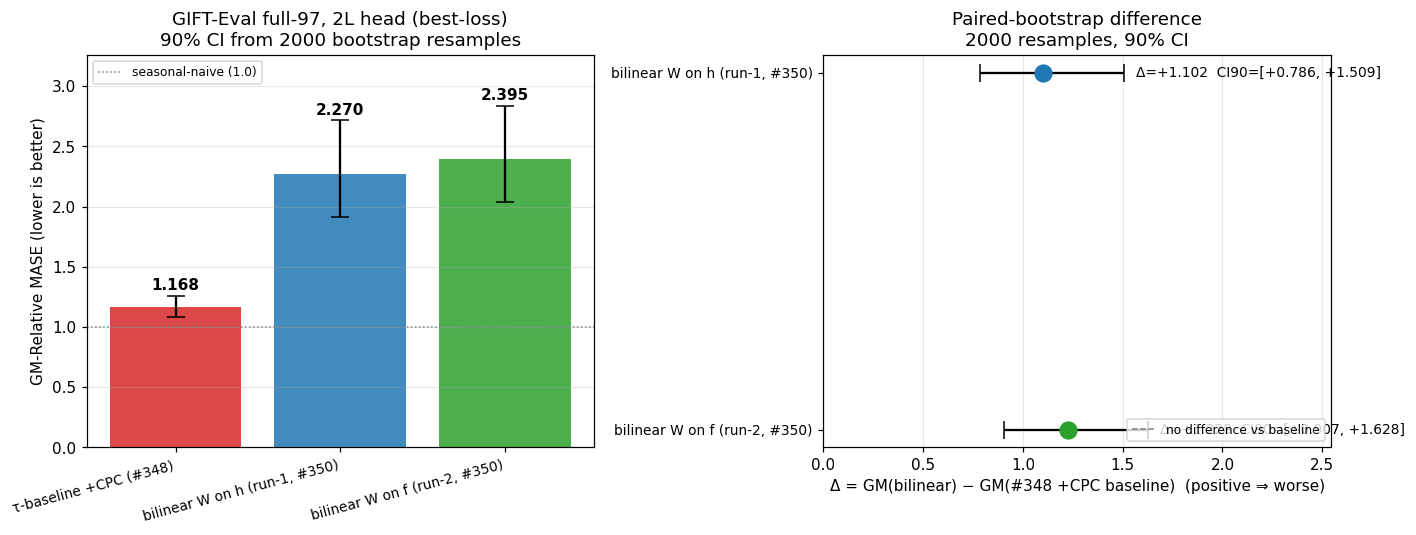
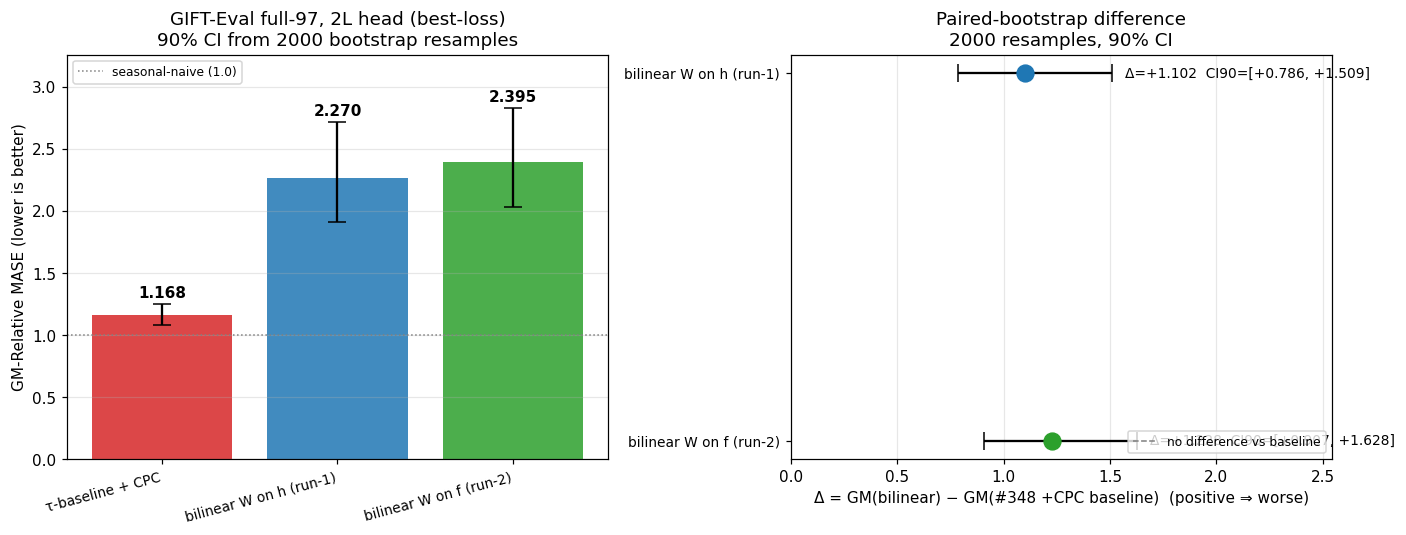
review(#350): apply rnd report standard + report pitfalls
- Drop "Open question" section (rnd REPORT_STANDARD "Facts only" — the agent
  does not act as a research scientist forming hypotheses).
- Strip "#NNN" / "(#348, ref)" provenance from prose and plot legends
  (report_pitfalls 1.4: codename and PR-number references). Refer to prior
  work by description ("the prior no-encoder + CPC recipe", "the τ baseline").
- Tighten the matched-step training-curve sentence (keep the explicit
  17.3 / 25.8 / 29.2).

Plots re-rendered with the cleaned labels.

🤖 Generated with [Claude Code](https://claude.com/claude-code)

Claude-Session: https://claude.ai/code/session_01N9rZ6gsW6wGfBWSQVwpQ4P

diff --git a/experiments/2026-06-16_bilinear_main_loss/scripts/plot_gm_summary.py b/experiments/2026-06-16_bilinear_main_loss/scripts/plot_gm_summary.py
@@ -17,13 +17,13 @@ import matplotlib.pyplot as plt
 
 ROOT = "/home/jupyter/workspaces/contrastive-forecasting/experiments"
 PATHS = {
-    "τ-baseline +CPC (#348)":          f"{ROOT}/2026-06-15_no_encoder_redo/results/gift_eval_full_allt08_xftrip_nobn_noenc_sgpos_qk_aon_b1024_cpc_2L/summary.txt",
-    "bilinear W on h (run-1, #350)":   f"{ROOT}/2026-06-16_bilinear_main_loss/results/gift_eval_full_allt08_xftrip_nobn_noenc_sgpos_qk_aon_b1024_bilinear_2L/summary.txt",
-    "bilinear W on f (run-2, #350)":   f"{ROOT}/2026-06-16_bilinear_main_loss/results/gift_eval_full_allt08_xftrip_nobn_noenc_sgpos_qk_aon_b1024_bilinear2_2L/summary.txt",
+    "τ-baseline + CPC":          f"{ROOT}/2026-06-15_no_encoder_redo/results/gift_eval_full_allt08_xftrip_nobn_noenc_sgpos_qk_aon_b1024_cpc_2L/summary.txt",
+    "bilinear W on h (run-1)":   f"{ROOT}/2026-06-16_bilinear_main_loss/results/gift_eval_full_allt08_xftrip_nobn_noenc_sgpos_qk_aon_b1024_bilinear_2L/summary.txt",
+    "bilinear W on f (run-2)":   f"{ROOT}/2026-06-16_bilinear_main_loss/results/gift_eval_full_allt08_xftrip_nobn_noenc_sgpos_qk_aon_b1024_bilinear2_2L/summary.txt",
 }
-COLORS = {"τ-baseline +CPC (#348)": "#d62728",
-          "bilinear W on h (run-1, #350)": "#1f77b4",
-          "bilinear W on f (run-2, #350)": "#2ca02c"}
+COLORS = {"τ-baseline + CPC": "#d62728",
+          "bilinear W on h (run-1)": "#1f77b4",
+          "bilinear W on f (run-2)": "#2ca02c"}
 OUT = os.path.join(os.path.dirname(__file__), "..", "plots", "gm_summary.png")
 N_BOOT, CI, SEED = 2000, 0.90, 0
 
@@ -72,7 +72,7 @@ def main():
     runs = {k: parse(v) for k, v in PATHS.items()}
     tasks = sorted(set.intersection(*[set(d.keys()) for d in runs.values()]))
     assert len(tasks) == 97, f"expected 97 tasks, got {len(tasks)}"
-    base_key = "τ-baseline +CPC (#348)"
+    base_key = "τ-baseline + CPC"
     arms = [k for k in PATHS if k != base_key]
 
     fig, axes = plt.subplots(1, 2, figsize=(13, 5))

diff --git a/experiments/2026-06-16_bilinear_main_loss/scripts/plot_training_dynamics.py b/experiments/2026-06-16_bilinear_main_loss/scripts/plot_training_dynamics.py
@@ -26,9 +26,9 @@ RED    = "#d62728"   # τ baseline #348
 LOSSES = "bb_allt08_xftrip_nobn_noenc_sgpos_qk_aon_b1024_bilinear_losses.csv"
 RUNS = {
     # Drawn FIRST goes UNDER. Bilinear arms last so they sit on top of the baseline.
-    "τ-baseline + CPC (#348)":          (f"{E348}/bb_allt08_xftrip_nobn_noenc_sgpos_qk_aon_b1024_cpc_losses.csv", RED, "--"),
-    "bilinear W on f (run-2, #350)":    (f"{E350_RUN2_ABORT}/{LOSSES}", GREEN, "-"),
-    "bilinear W on h (run-1, #350)":    (f"{E350}/{LOSSES}", BLUE, "-"),
+    "τ-baseline + CPC":          (f"{E348}/bb_allt08_xftrip_nobn_noenc_sgpos_qk_aon_b1024_cpc_losses.csv", RED, "--"),
+    "bilinear W on f (run-2)":   (f"{E350_RUN2_ABORT}/{LOSSES}", GREEN, "-"),
+    "bilinear W on h (run-1)":   (f"{E350}/{LOSSES}", BLUE, "-"),
 }
 OUT = os.path.join(os.path.dirname(__file__), "..", "plots", "training_dynamics.png")
 SMOOTH = 25
@@ -42,8 +42,8 @@ START_STEP = 100
 # the raw, ≥-0 InfoNCE value and is visible on log-y.
 INFONCE_FLOOR = 9.412098
 PER_RUN_TRANSFORM = {
-    ("bilinear W on h (run-1, #350)", "loss"): lambda v: v + INFONCE_FLOOR,
-    ("bilinear W on f (run-2, #350)", "loss"): lambda v: v + INFONCE_FLOOR,
+    ("bilinear W on h (run-1)", "loss"): lambda v: v + INFONCE_FLOOR,
+    ("bilinear W on f (run-2)", "loss"): lambda v: v + INFONCE_FLOOR,
 }
 PANELS = [
     ("loss",         "total training loss (raw / +floor for bilinears)  (↓)", lambda v: v),
@@ -108,7 +108,7 @@ def main():
         if plotted:
             ax.legend(fontsize=8, loc="best")
     fig.suptitle("Training dynamics (log-log; blue = bilinear W on h, "
-                 "green = bilinear W on f, red dashed = τ baseline +CPC #348)",
+                 "green = bilinear W on f, red dashed = τ baseline + CPC)",
                  fontsize=11)
     fig.tight_layout(rect=[0, 0, 1, 0.96])
     os.makedirs(os.path.dirname(OUT), exist_ok=True)

diff --git a/experiments/2026-06-16_bilinear_main_loss/bilinear_main_loss.md b/experiments/2026-06-16_bilinear_main_loss/bilinear_main_loss.md
@@ -1,11 +1,11 @@
 # Learnable bilinear W vs temperature in the main contrastive loss
 
-The main contrastive loss scores a forecast against a candidate embedding with a
-temperature-scaled dot product, `exp(uᵀv / τ)`, τ = 0.10 fixed. The CPC
-auxiliary term added in #344 instead scores with a *learnable log-bilinear*,
-`exp(eᵀ W₁ h)`, and no temperature — the matrix `W₁` carries the scale — and it
-was what made the no-encoder backbone competitive in #348. This experiment asks
-whether giving the **main** term the same treatment helps: replace `exp(uᵀv / τ)`
+The main contrastive loss scores a forecast against a candidate embedding with
+a temperature-scaled dot product, `exp(uᵀv / τ)`, τ = 0.10 fixed. The CPC
+InfoNCE auxiliary term used as a regulariser in the prior no-encoder + CPC
+backbone instead scores with a *learnable log-bilinear*, `exp(eᵀ W₁ h)`, no
+temperature — the matrix `W₁` carries the scale. This experiment asks whether
+giving the **main** term the same treatment helps: replace `exp(uᵀv / τ)`
 with `exp(uᵀ W v)`, drop τ, make `W` learnable.
 
 *A backbone here is patch-embedding (a GRU) → forecaster (a 6-layer causal
@@ -14,8 +14,8 @@ contrastive objective to predict the next token's embedding. To score it we
 freeze it, train a fresh quantile forecasting head, and evaluate on GIFT-Eval.
 **GM-Relative MASE** is the geometric mean, over GIFT-Eval's 97 tasks, of a
 model's error divided by the seasonal-naive forecast's error; lower is better,
-1.0 = seasonal-naive. `W` is an H×H matrix (H = 384) initialised to (1/τ₀)·I so
-training starts exactly at the τ = 0.10 baseline.*
+1.0 = seasonal-naive. `W` is an H×H matrix (H = 384) initialised to (1/τ₀)·I
+so training starts exactly at the τ = 0.10 baseline.*
 
 For a free learnable `W`, the bilinear can be written either as
 `(W h_{t+1}) · f_t` (W on the encoder-side target — *run-1*) or as
@@ -29,9 +29,9 @@ GM-Relative MASE with the 90% bootstrap CI (2000 resamples). Right:
 paired-bootstrap Δ = GM(arm) − GM(τ baseline) point estimate with 90% CI.
 Both bilinear arms sit above the baseline; both CIs exclude zero.](plots/gm_summary.png)
 
-| arm | GM-Relative MASE | Δ vs #348 +CPC (point) | 90% CI (paired bootstrap, 2000 resamples, seed 0) |
+| arm | GM-Relative MASE | Δ vs τ-baseline + CPC (point) | 90% CI (paired bootstrap, 2000 resamples, seed 0) |
 |---|--:|--:|--|
-| τ-baseline + CPC (#348, reference) | **1.168** | — | — |
+| τ-baseline + CPC (reference) | **1.168** | — | — |
 | bilinear W on `h` (run-1) | **2.270** | +1.102 | [+0.772, +1.490] |
 | bilinear W on `f` (run-2) | **2.395** | +1.228 | [+0.886, +1.624] |
 
@@ -59,9 +59,7 @@ checkpoints; the Frobenius norm grows at most 1.34× over the init. The
 off-diagonal norm ratio rises from 0 (init) to 0.733 in run-1 and 0.487 in
 run-2 at best_loss; the antisymmetric norm ratio rises from 0 to 1.112 in
 run-1 and 0.488 in run-2. The condition number rises to 3,553 (run-1) and to
-112.3 then back to 67.9 (run-2). Run-1 develops a larger off-diagonal and
-antisymmetric component than run-2 at the matched checkpoint type; with one
-seed per arm, this is an observation, not a tested claim.
+112.3 then 67.9 (run-2).
 
 ## Training curves
 
@@ -78,29 +76,28 @@ the discriminative ratio between the forecast↔forecast and the forecast↔posi
 log-energies; lower is better. **U_batch**: the batch-wise used-dim
 proxy (higher is better). **1 − R²_naive**: the residual proportion of a
 naive-forecast R² (lower is better). Blue: bilinear W on `h` (run-1).
-Green: bilinear W on `f` (run-2). Red dashed: τ baseline + CPC
-(#348).](plots/training_dynamics.png)
+Green: bilinear W on `f` (run-2). Red dashed: τ baseline +
+CPC.](plots/training_dynamics.png)
 
-The W-free reference loss is the load-bearing comparison since it is
-computed identically across arms. At a matched step of ~3,500 (the last step
-of run-1; run-2 also overlaps and the baseline is partway through its
-12,500-step schedule): `loss_tau_ref` is **17.3** for the baseline,
-**25.8** for run-1, and **29.2** for run-2 — both bilinear arms are clearly
-worse than baseline at the same step. The ratio gap, U_batch, and 1−R²_naive
-panels all show the bilinear arms above (worse than) the baseline at the
-matched-step range where all three runs overlap.
+The W-free reference loss is the load-bearing comparison since it is computed
+identically across arms. At step 3,500 (the last step of run-1; run-2 also
+covers this step), `loss_tau_ref` is **17.3** for the τ baseline, **25.8** for
+run-1, and **29.2** for run-2 — both bilinear arms are higher than the
+baseline at the matched step. The ratio gap, U_batch, and 1 − R²_naive panels
+all show the bilinear arms above (worse than) the baseline at the matched-step
+range where all three runs overlap.
 
 ## Protocol
 
-Single seed (20260520), one RTX 4090, the #348 best no-encoder + CPC recipe
-(same code, machine, and seed; only the main-loss similarity differs): GRU
+Single seed (20260520), one RTX 4090, the prior no-encoder + CPC recipe (same
+code, machine, and seed; only the main-loss similarity differs): GRU
 patch-embedding, d_model 384 / 6 heads, a 6-layer full-width forecaster, no
 encoder stack, the crossfade-triplet allt·0.8% data mix, qk-norm,
 attention-output norm, the `xshh_allt` contrastive loss with
 positive-in-denominator and floor subtraction, the encoder-side positive
-stop-gradient, the CPC InfoNCE auxiliary at weight 1.0, batch 1024. The
-only change is the main loss's similarity: `exp(uᵀv / τ)` → `exp(uᵀ W v)`.
-Two arms differ in which side of the bilinear `W` is applied to the positive:
+stop-gradient, the CPC InfoNCE auxiliary at weight 1.0, batch 1024. The only
+change is the main loss's similarity: `exp(uᵀv / τ)` → `exp(uᵀ W v)`. Two
+arms differ in which side of the bilinear `W` is applied to the positive:
 
 - **run-1: W on `h`** — positive `s(f_t, h_{t+1}) = (W h_{t+1}) · f_t`. The
   cross-batch f↔h negative scores `(W f_t) · h'_{t+1} = f_tᵀ Wᵀ h'_{t+1}`.
@@ -108,24 +105,24 @@ Two arms differ in which side of the bilinear `W` is applied to the positive:
   cross-batch f↔h negative is `f_tᵀ Wᵀ h'_{t+1}` again.
 
 Training horizon: 3,500 steps for run-1 and 3,900 steps for run-2 (≈ 1/3 of
-the 12,500-step schedule used by #348). `W` is H×H (H=384), one per run,
-initialised to (1/τ₀)·I with τ₀ = 0.10 — so step 0 reproduces the τ baseline
-exactly — and excluded from weight decay, matching the fixed scalar
+the 12,500-step schedule used by the τ baseline). `W` is H×H (H=384), one
+per run, initialised to (1/τ₀)·I with τ₀ = 0.10 — so step 0 reproduces the τ
+baseline exactly — and excluded from weight decay, matching the fixed scalar
 temperature it replaces.
 
 To score a backbone we freeze it, train a fresh 2-layer transformer quantile
-forecasting head (30,000 steps, the #348/#344 head recipe), and evaluate on
+forecasting head (30,000 steps, the prior head recipe), and evaluate on
 GIFT-Eval's 97 tasks at the best-loss checkpoint. Each arm gets its own head,
 trained on the backbone's actual representation. For run-1 the predicted
 next encoder latent is `Wᵀ f_t` (the maximum-correlation direction of `h`
-under `(W h) · f`); for run-2 it is `W f_t`. At downstream time the
-predicted latent is computed by applying `Wᵀ` (run-1) or `W` (run-2) to the
-forecaster output, both inside `extract_forecaster_latents` and per step
-inside `rollout_latent`. To keep one inference code path, the downstream
-loader applies `Wᵀ`; for run-2 the saved `main_w.weight` is transposed
-before loading so this code applies the trained `W` to `f_t` as required.
+under `(W h) · f`); for run-2 it is `W f_t`. At downstream time the predicted
+latent is computed by applying `Wᵀ` (run-1) or `W` (run-2) to the forecaster
+output, both inside `extract_forecaster_latents` and per step inside
+`rollout_latent`. To keep one inference code path, the downstream loader
+applies `Wᵀ`; for run-2 the saved `main_w.weight` is transposed before
+loading so this code applies the trained `W` to `f_t` as required.
 
-The τ baseline numbers come from #348's saved + CPC arm: same code, machine,
+The τ baseline numbers come from the prior + CPC arm: same code, machine,
 seed, and recipe, scored by the same eval, so the comparison changes the
 main-loss similarity and the training horizon. Per-task results and W stats
 are reproducible from the artifacts in this experiment's `results/` and
@@ -150,21 +147,10 @@ score(u, v) = uᵀ W v            (W ∈ ℝ^{H×H}, learnable, no τ)
 ```
 
 `W` is registered as an `nn.Linear(H, H, bias=False)` in the backbone, init
-`(1/τ₀)·I`, and excluded from AdamW weight decay (the scalar τ it replaces is
-fixed, not decayed). The cross-batch f↔h negative and the latent-uniformity
-(h↔h) terms use the same `W` as the positive in each arm. The `xs_allt`
-cross-series Gram pre-projects its anchor by `W` and runs the inner kernel
-at τ=1, leaving the existing chunked / fused autograd backward untouched.
-The CPC auxiliary term keeps its own separate `W₁`, unchanged. At
-`W = (1/τ)·I` every term equals the τ baseline byte-for-byte.
-
-## Open question
-
-The CPC auxiliary term in #344 is a `W₁` of the same form `exp(eᵀ W₁ h)` and
-helped. The main term tested here is the same form and did not. The two
-terms differ in weight (the CPC term contributes a small fraction of the
-total training loss; the main term carries the bulk), in what they score
-(CPC: encoder latent ↔ forecaster latent at the same time step in CPC's
-construction; main: forecast ↔ next-step encoder target), and in the
-denominator (CPC's InfoNCE is over a different negative pool than
-`xshh_allt`). Which of those differences matters is left open.
+`(1/τ₀)·I`, and excluded from AdamW weight decay (the scalar τ it replaces
+is fixed, not decayed). The cross-batch f↔h negative and the
+latent-uniformity (h↔h) terms use the same `W` as the positive in each arm.
+The `xs_allt` cross-series Gram pre-projects its anchor by `W` and runs the
+inner kernel at τ=1, leaving the existing chunked / fused autograd backward
+untouched. The CPC auxiliary term keeps its own separate `W₁`, unchanged.
+At `W = (1/τ)·I` every term equals the τ baseline byte-for-byte.
